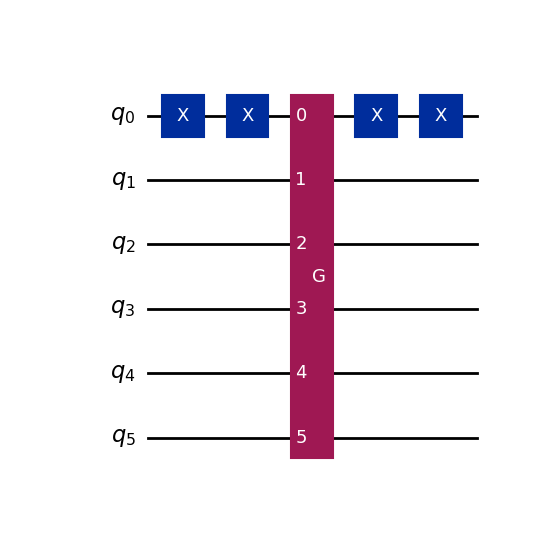
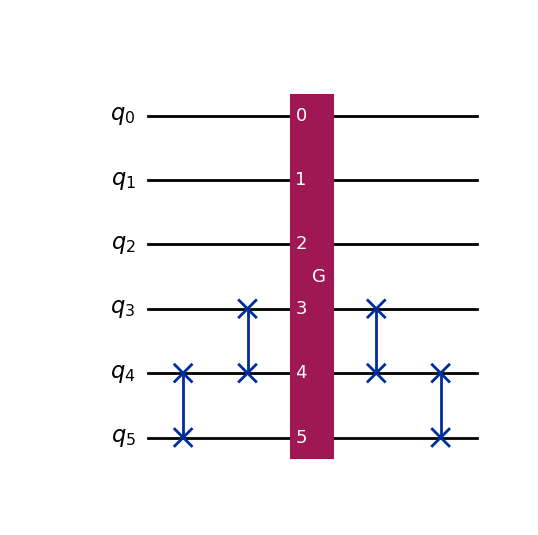
初步完成

diff --git a/front_end/index.html b/front_end/index.html
@@ -142,8 +142,8 @@
             <div id="image2"></div>
             <div id="image3"></div>
             <script>
-                loadImage('/ansf.png','image1');
-                loadImage('/ansg.png','image2');
+                // loadImage('/ansf.png','image1');
+                // loadImage('/ansg.png','image2');
                 // loadImage('/ansf.png','image1');
                 // loadImage('/ansg.png','image2');
             </script>

diff --git a/outputP.py b/outputP.py
@@ -108,9 +108,22 @@ def getGate(mat : np.ndarray, n : int, swp = [], name  : str = "BF"):
 # print("fli:",fli)
 # print("gli:",gli)
 def outputP(n : int, fli : list, gli : list) -> bool:
+    matf = getMat(n,fli)
+    matg = getMat(n,gli)
+    fgate = getGate(matf, n, name="F")
+    ggate = getGate(matg, n, name="G")
+    qf = QuantumRegister(n * 2, "q")
+    progf = Qcir.QuantumCircuit(qf)
+    progf.append(fgate, qf[:])
+    progf.draw('mpl').savefig('ansf.png')
+
+    qg = QuantumRegister(n * 2, "q")
+    progg = Qcir.QuantumCircuit(qg)
+    progg.append(ggate, qg[:])
+    progg.draw('mpl').savefig('ansg.png')
     plist = [-1] * n
-    flis = [format(fli[i], '03b') for i in range(2**n)]
-    glis = [format(gli[i], '03b') for i in range(2**n)]
+    flis = [format(fli[i], '03b')[::-1] for i in range(2**n)]
+    glis = [format(gli[i], '03b')[::-1] for i in range(2**n)]
     print(flis)
     print(glis)
     for i in range(2 ** n):
@@ -135,13 +148,28 @@ def outputP(n : int, fli : list, gli : list) -> bool:
         for j in range(n):
             if glis[i][plist[j]] != flis[i][j]:
                 return False
-    matf = getMat(n,fli)
-    matg = getMat(n,gli)
     print(np.int64(np.real(matf)))
     print(np.int64(np.real(matg)))
 
-    fgate = getGate(matf, n, name="F")
-    ggate = getGate(matg, n, name="G")
     ans = solve(fgate, ggate, n)
     print(ans)
+    swp = []
+    for i in range(n):
+        if ans[i] == i:
+            continue
+        for j in range(i + 1, n):
+            if ans[j] == i:
+                swp.append([i, j])
+                ans[j] = ans[i]
+                ans[i] = i
+                break
+    print("swap", swp)
+    qg = QuantumRegister(n * 2, "q")
+    progg = Qcir.QuantumCircuit(qg)
+    for i in range(len(swp) - 1, -1, -1):
+        progg.swap(swp[i][0] + n, swp[i][1] + n)
+    progg.append(ggate, qg[:])
+    for i in range(len(swp)):
+        progg.swap(swp[i][0] + n, swp[i][1] + n)
+    progg.draw('mpl').savefig('ansg.png')
     return True

diff --git a/server.py b/server.py
@@ -1,6 +1,5 @@
 import json
 from http.server import BaseHTTPRequestHandler, HTTPServer
-import sys
 import os
 import inputN
 import outputP
@@ -78,7 +77,7 @@ class SimpleHTTPRequestHandler(BaseHTTPRequestHandler):
                 res_str = "是P等价的"
                 suc = outputP.outputP(3, json_data['p1'], json_data['p2'])
             print("suc:", suc)
-            if suc:
+            if not suc:
                 res_str = "不" + res_str
             # 发送响应状态码
             self.send_response(200)
@@ -86,7 +85,7 @@ class SimpleHTTPRequestHandler(BaseHTTPRequestHandler):
             self.end_headers()
 
             # 返回处理结果
-            response = {"status": "success", "ok": suc}
+            # response = {"status": "success", "ok": suc}
             self.wfile.write(json.dumps(res_str).encode("utf-8"))
         except json.JSONDecodeError:
             # 处理 JSON 解码错误
